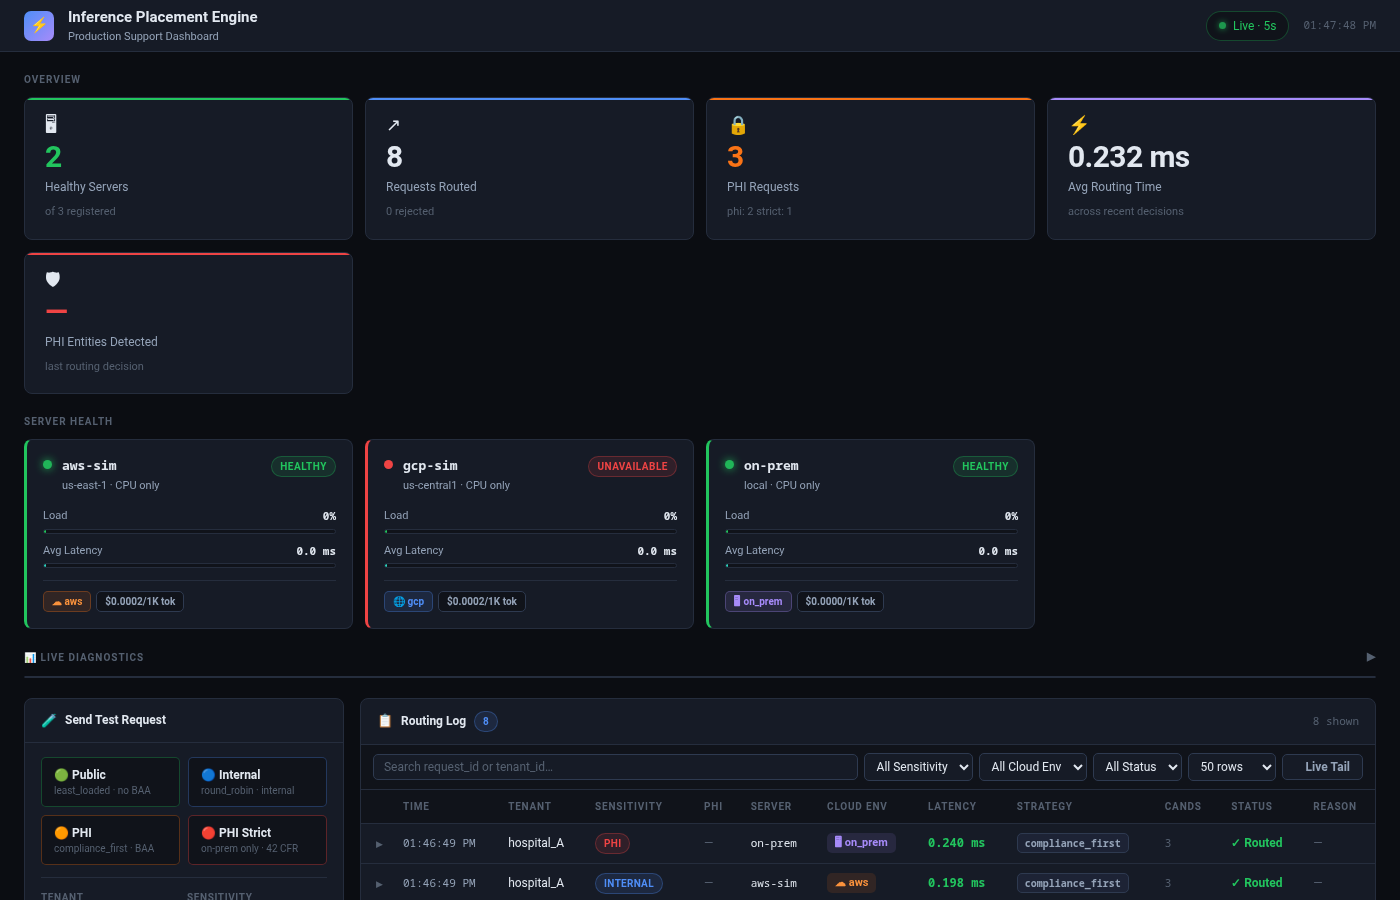
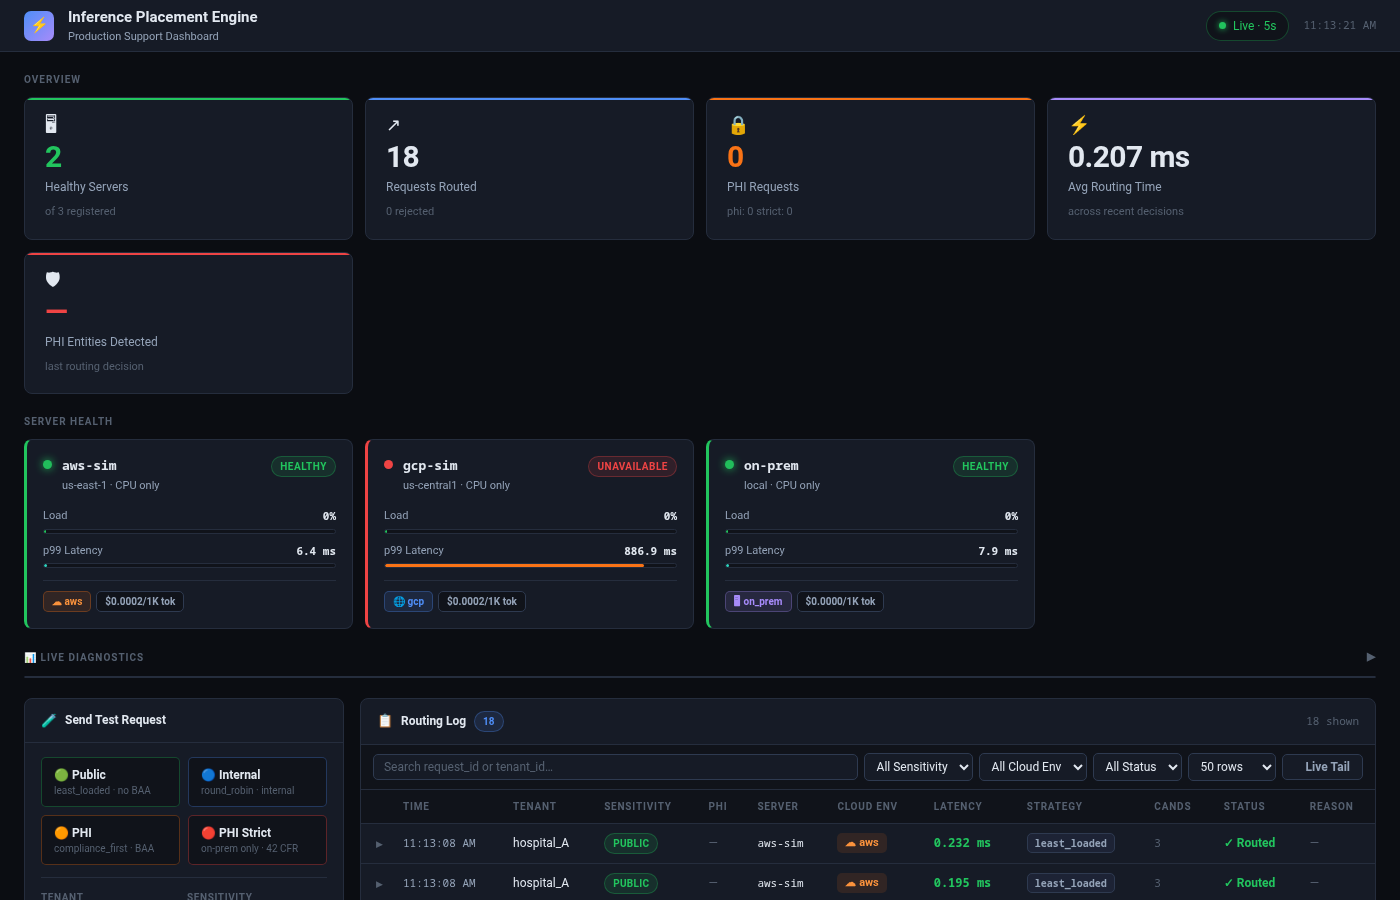
docs: update dashboard screenshot showing p99 latency labels and values

diff --git a/README.md b/README.md
@@ -6,7 +6,7 @@ A HIPAA-aware inference placement router that selects the best cloud or on-premi
 
 ![Production Support Dashboard](docs/dashboard-screenshot.png)
 
-*Live dashboard showing 8 routed requests across public, internal, and PHI tiers — aws-sim and on-prem healthy, gcp-sim unavailable, avg routing time 0.232 ms.*
+*Live dashboard showing 18 routed requests — aws-sim (p99 6.4 ms) and on-prem (p99 7.9 ms) healthy, gcp-sim unavailable (p99 886.9 ms from timeout). Avg routing decision time 0.207 ms.*
 
 ---
 
